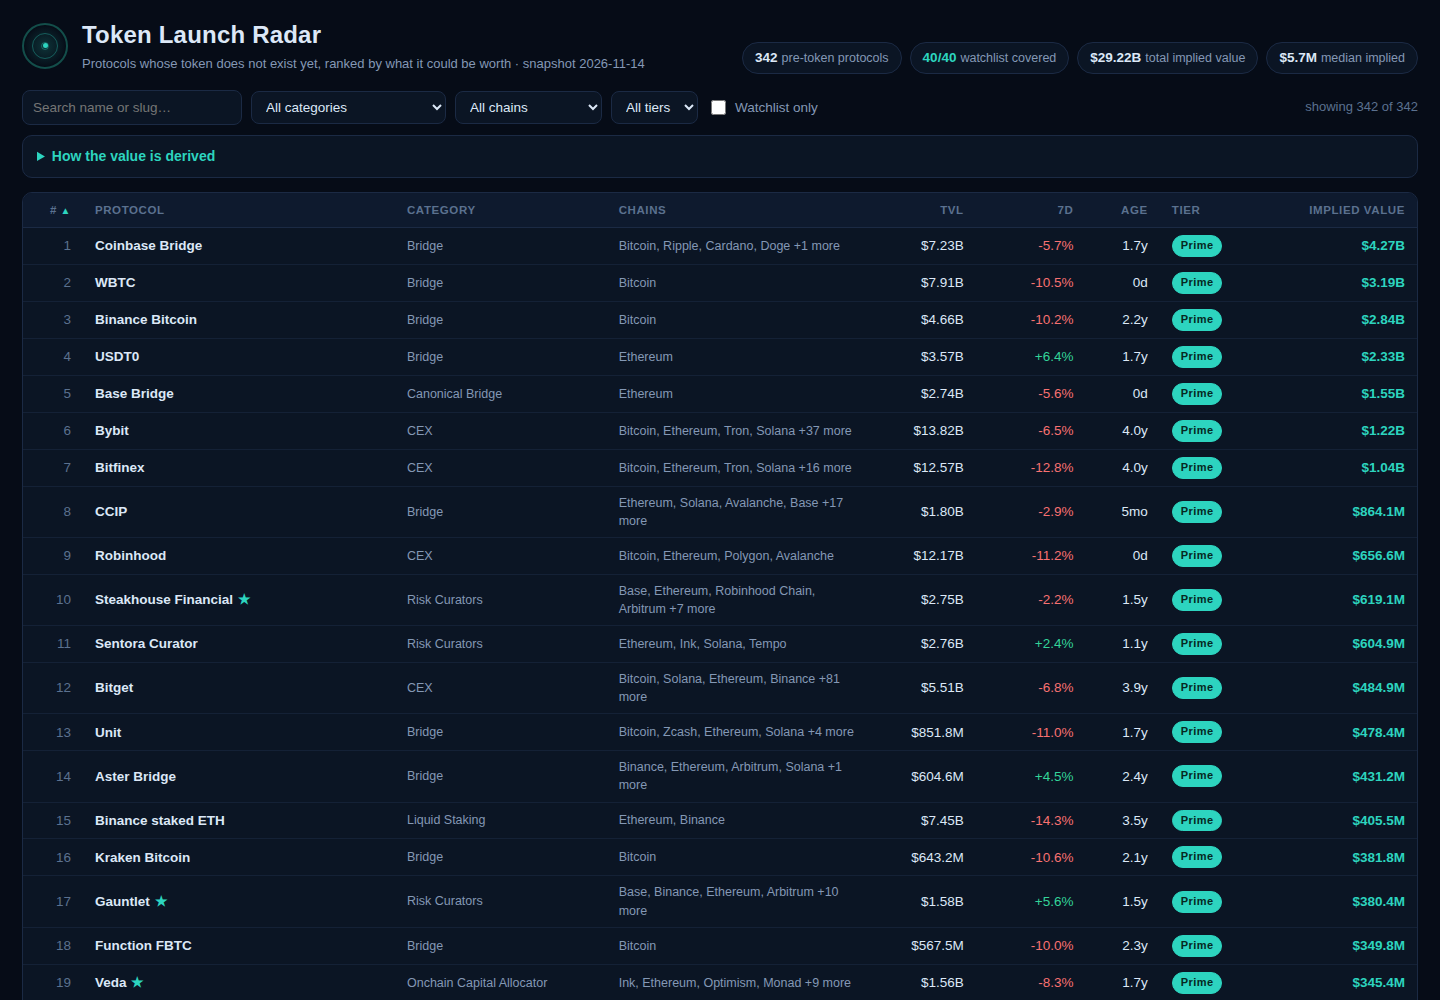
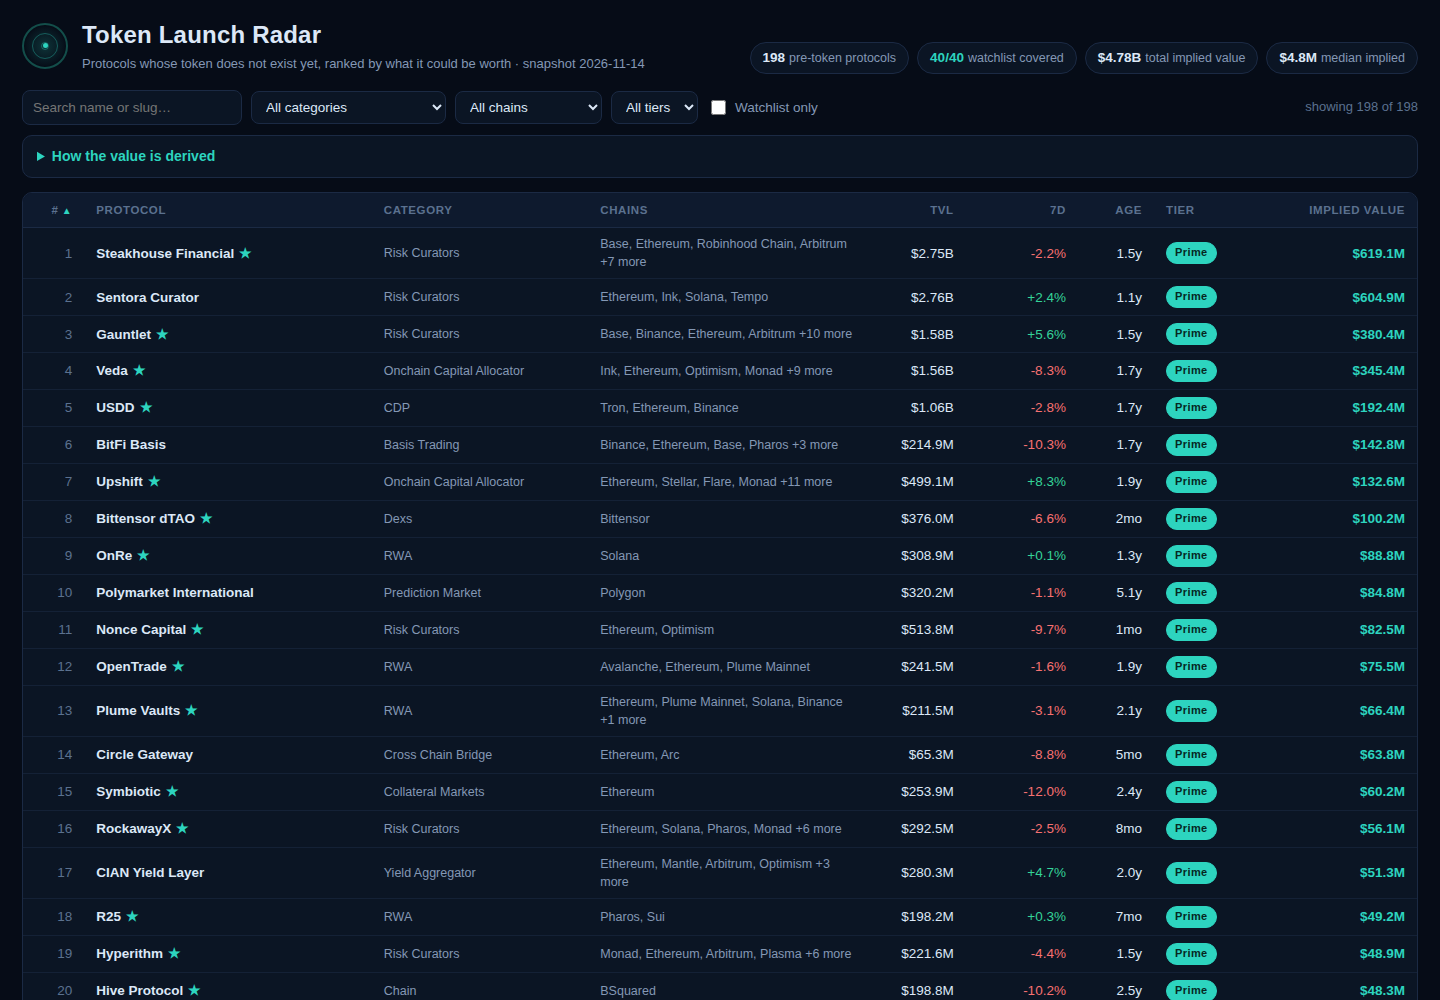
Set aside wrapped and bridged products: they are not token launches

diff --git a/lib/model.ts b/lib/model.ts
@@ -64,6 +64,9 @@ export interface RadarRow {
   why: string;
 }
 
+/** Why a pre-token protocol was set aside as a product of an existing token rather than a launch candidate. */
+export type ExcludedReason = 'category' | 'name_word' | 'exchange_prefix' | 'version_marker';
+
 /** The full radar: the rows plus the meta the dashboard shows beside them. */
 export interface Radar {
   rows: RadarRow[];
@@ -72,6 +75,7 @@ export interface Radar {
     floor_usd: number;
     calibration: { global_multiple: number; global_peers: number; categories: CalibrationEntry[] };
     counts: { protocols: number; pre_token: number; tokenized: number; watchlist: number; watchlist_covered: number };
+    excluded_products: { total: number; by_reason: Record<ExcludedReason, number> };
   };
 }
 
@@ -112,6 +116,34 @@ export function parseSnapshot(text: string): Snapshot {
 /** A protocol has no token yet when the snapshot records neither a CoinGecko id nor a ticker. */
 export function isPreToken(p: Protocol): boolean {
   return p.gecko_id === null && p.symbol === null;
+}
+
+/** Categories that are products of another token by construction: bridges and staking wrappers. */
+const PRODUCT_CATEGORIES = new Set(['Bridge', 'Canonical Bridge', 'Liquid Staking', 'Liquid Restaking', 'Restaked BTC', 'CEX']);
+
+/** Exchanges whose own-name products (Binance Bitcoin, Coinbase Bridge, ...) are not launches. */
+const EXCHANGE_PREFIXES = ['Binance', 'Coinbase', 'Bybit', 'Kraken', 'Bitget', 'OKX', 'Bitfinex', 'Gemini'];
+
+/** A version marker at the end of a name: a successor of a protocol that already exists. */
+const VERSION_MARKER = /\s(V\d+(\.\d+)?|v\d+(\.\d+)?|\d+\.\d+)$/;
+
+/**
+ * The launch-candidate test, the same one the snapshot's watchlist definition uses: a protocol is
+ * a wrapped, staked or bridged product of a token that already trades — or a versioned successor
+ * of a protocol that already exists — when its category is a product category, its name carries
+ * the whole word "wrapped", "staked" or "staking", its name begins with an exchange's name, or its
+ * name ends in a version marker. Returns the first test it fails, or null for a genuine launch
+ * candidate. WBTC is Bitcoin on Ethereum: a token that exists, wearing a bridge — not a launch
+ * still to come, and pricing it as one would rank a wrapped product above every real candidate.
+ */
+export function excludedReason(p: Protocol): ExcludedReason | null {
+  if (p.category !== null && PRODUCT_CATEGORIES.has(p.category)) return 'category';
+  if (/\b(wrapped|staked|staking)\b/i.test(p.name)) return 'name_word';
+  for (const exchange of EXCHANGE_PREFIXES) {
+    if (p.name === exchange || p.name.startsWith(`${exchange} `)) return 'exchange_prefix';
+  }
+  if (VERSION_MARKER.test(p.name)) return 'version_marker';
+  return null;
 }
 
 function median(values: number[]): number {
@@ -335,7 +367,21 @@ export function buildRadar(snapshot: Snapshot): { board: RadarRow[]; radar: Rada
   const multipleByCategory = new Map(calibration.categories.map((e) => [e.category, e.multiple]));
   const watch = new Set(snapshot.watchlist);
 
-  const scored = snapshot.protocols.filter(isPreToken).map((p) => {
+  // Set aside the wrapped, staked and bridged products of tokens that already trade before
+  // ranking: however large their TVL, they are not launch candidates. The watchlist is never set
+  // aside — its own definition already excludes every one of these, and a watchlist slug stays.
+  const byReason: Record<ExcludedReason, number> = { category: 0, name_word: 0, exchange_prefix: 0, version_marker: 0 };
+  let excludedTotal = 0;
+  const candidates = snapshot.protocols.filter(isPreToken).filter((p) => {
+    if (watch.has(p.slug)) return true;
+    const reason = excludedReason(p);
+    if (reason === null) return true;
+    byReason[reason] += 1;
+    excludedTotal += 1;
+    return false;
+  });
+
+  const scored = candidates.map((p) => {
     const category = categoryOf(p);
     const ageDays = ageDaysOf(p.listed_at, snapshot.as_of);
     const multiple = multipleByCategory.get(category) ?? calibration.global_multiple;
@@ -394,6 +440,7 @@ export function buildRadar(snapshot: Snapshot): { board: RadarRow[]; radar: Rada
         watchlist: snapshot.watchlist.length,
         watchlist_covered: board.filter((r) => r.watchlist).length,
       },
+      excluded_products: { total: excludedTotal, by_reason: byReason },
     },
   };
   return { board, radar };

diff --git a/dashboard/app.js b/dashboard/app.js
@@ -67,6 +67,15 @@
     var o = document.createElement('option'); o.value = c; o.textContent = c; els.chain.appendChild(o);
   });
 
+  /* set-aside note inside "How the value is derived": the products of existing tokens are not launches */
+  (function renderSetAside() {
+    var el = $('setaside');
+    var excluded = meta.excluded_products && meta.excluded_products.total;
+    if (!el || !excluded) return;
+    el.textContent = 'One separation is made before any ranking: wrapped, staked and bridged products of tokens ' +
+      'that already trade are set aside — they are not launches — and ' + excluded + ' of them are excluded from this board.';
+  })();
+
   /* calibration table inside "How the value is derived" */
   (function renderCalib() {
     var cal = meta.calibration || { categories: [] };

diff --git a/main.ts b/main.ts
@@ -94,6 +94,8 @@ process.stdout.write(
   `token-radar: ${counts.protocols} protocols in the snapshot, ${counts.tokenized} tokenized peers calibrated ` +
     `(global median multiple ${calibration.global_multiple}x), ${board.length} pre-token protocols ranked, ` +
     `${counts.watchlist_covered}/${counts.watchlist} watchlist covered\n` +
+    `token-radar: ${board.length} launch candidates ranked; ${radar.meta.excluded_products.total} wrapped, staked or ` +
+    `bridged products set aside — they are not token launches\n` +
     `token-radar: wrote board.json (${board.length} rows), data.js, dashboard/ (${dashboardFiles.length} files), ` +
     `screenshots/ (${shotFiles.length} images) and dossier.json to ${outDir}\n`,
 );

diff --git a/dashboard/index.html b/dashboard/index.html
@@ -45,6 +45,7 @@
     traded like its category's median token. It is not a prediction that a token launches, that it
     launches soon, or that anyone is airdropped anything. It is a ranking device — a way to decide
     which of 342 tokenless protocols deserve a wallet's time first.</p>
+    <p id="setaside"></p>
     <div id="calib"></div>
   </div>
 </details>
